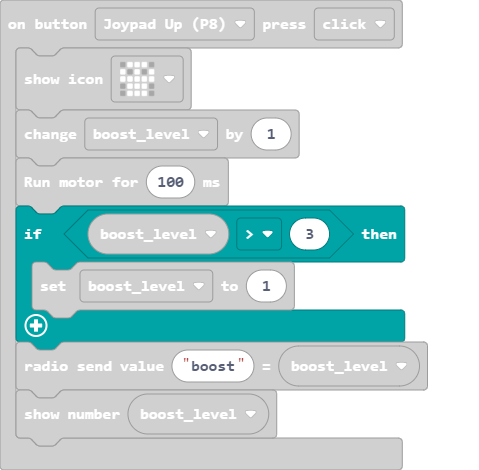
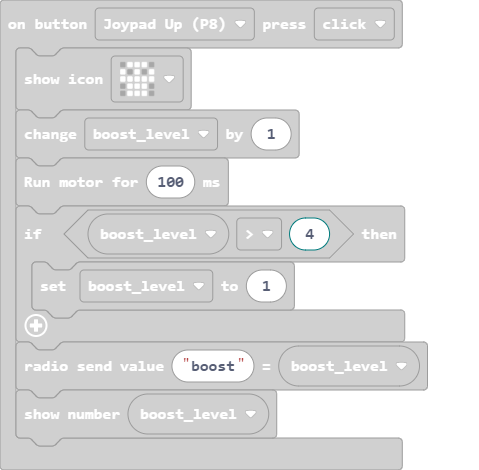
Update main.blocks, main.ts

Changed region(s): [[0.0292, 0.417, 0.8476, 0.7447]]

diff --git a/main.ts b/main.ts
@@ -10,7 +10,7 @@ Kitronik_Game_Controller.onButtonPress(Kitronik_Game_Controller.ControllerButton
     basic.showIcon(IconNames.Skull)
     boost_level += 1
     Kitronik_Game_Controller.runMotor(100)
-    if (boost_level > 3) {
+    if (boost_level > 4) {
         boost_level = 1
     }
     radio.sendValue("boost", boost_level)
